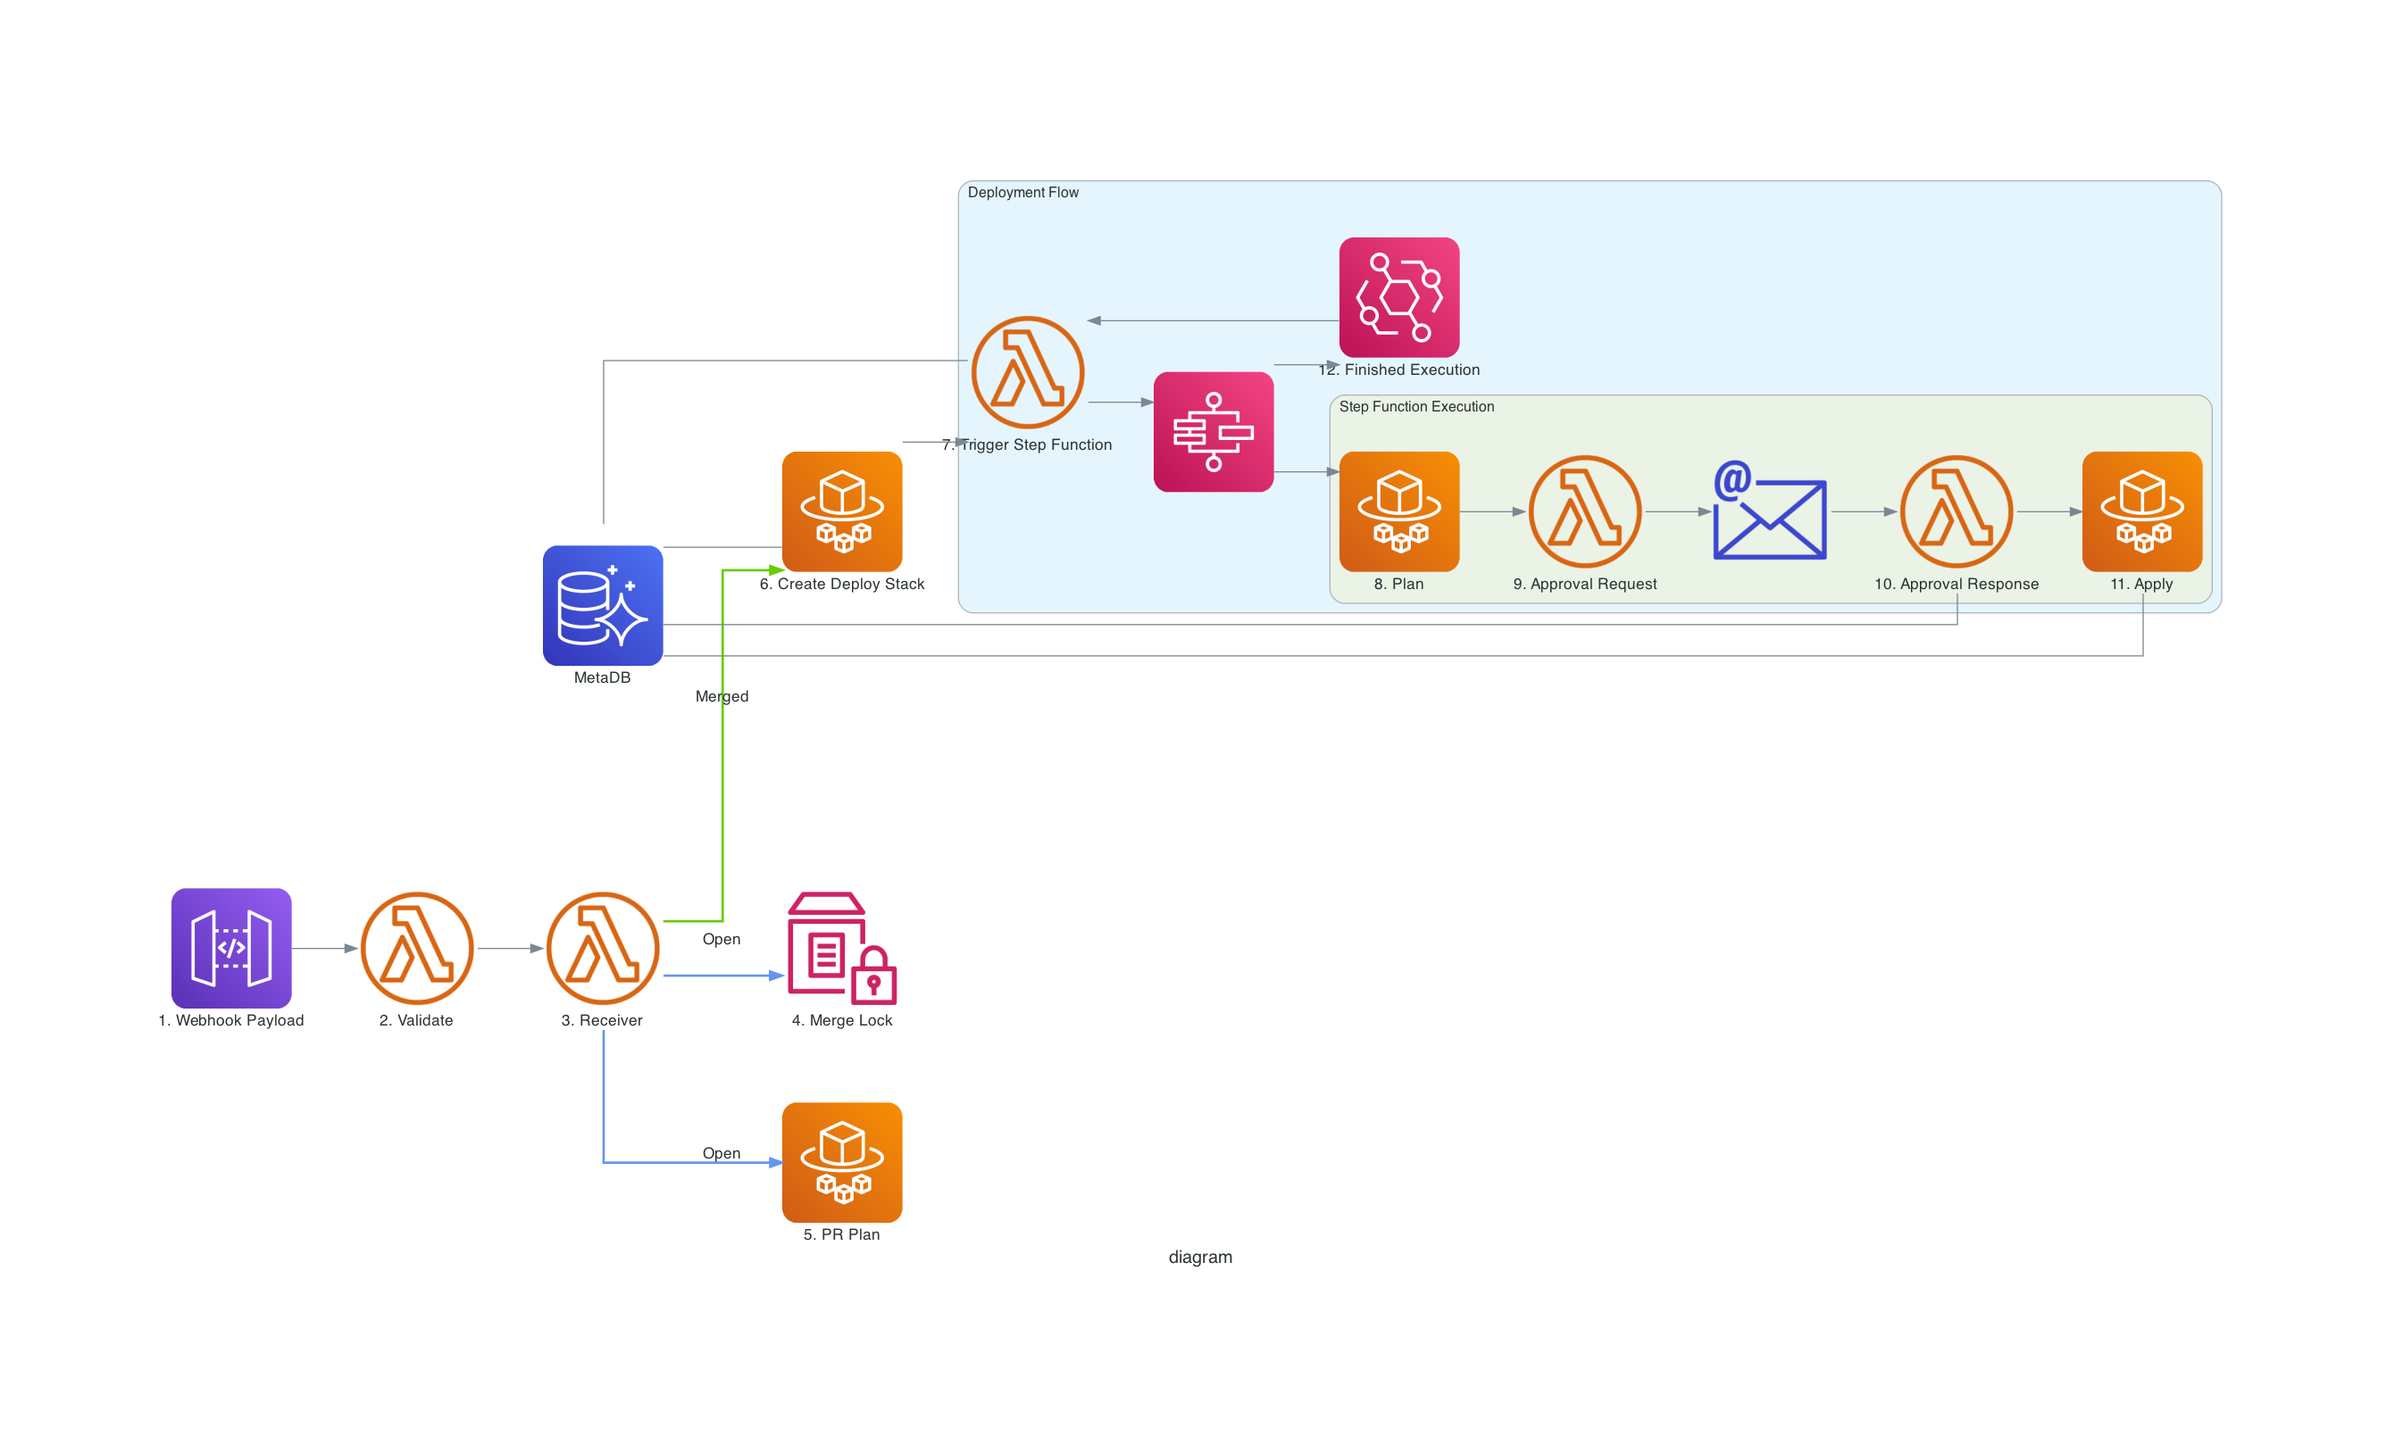
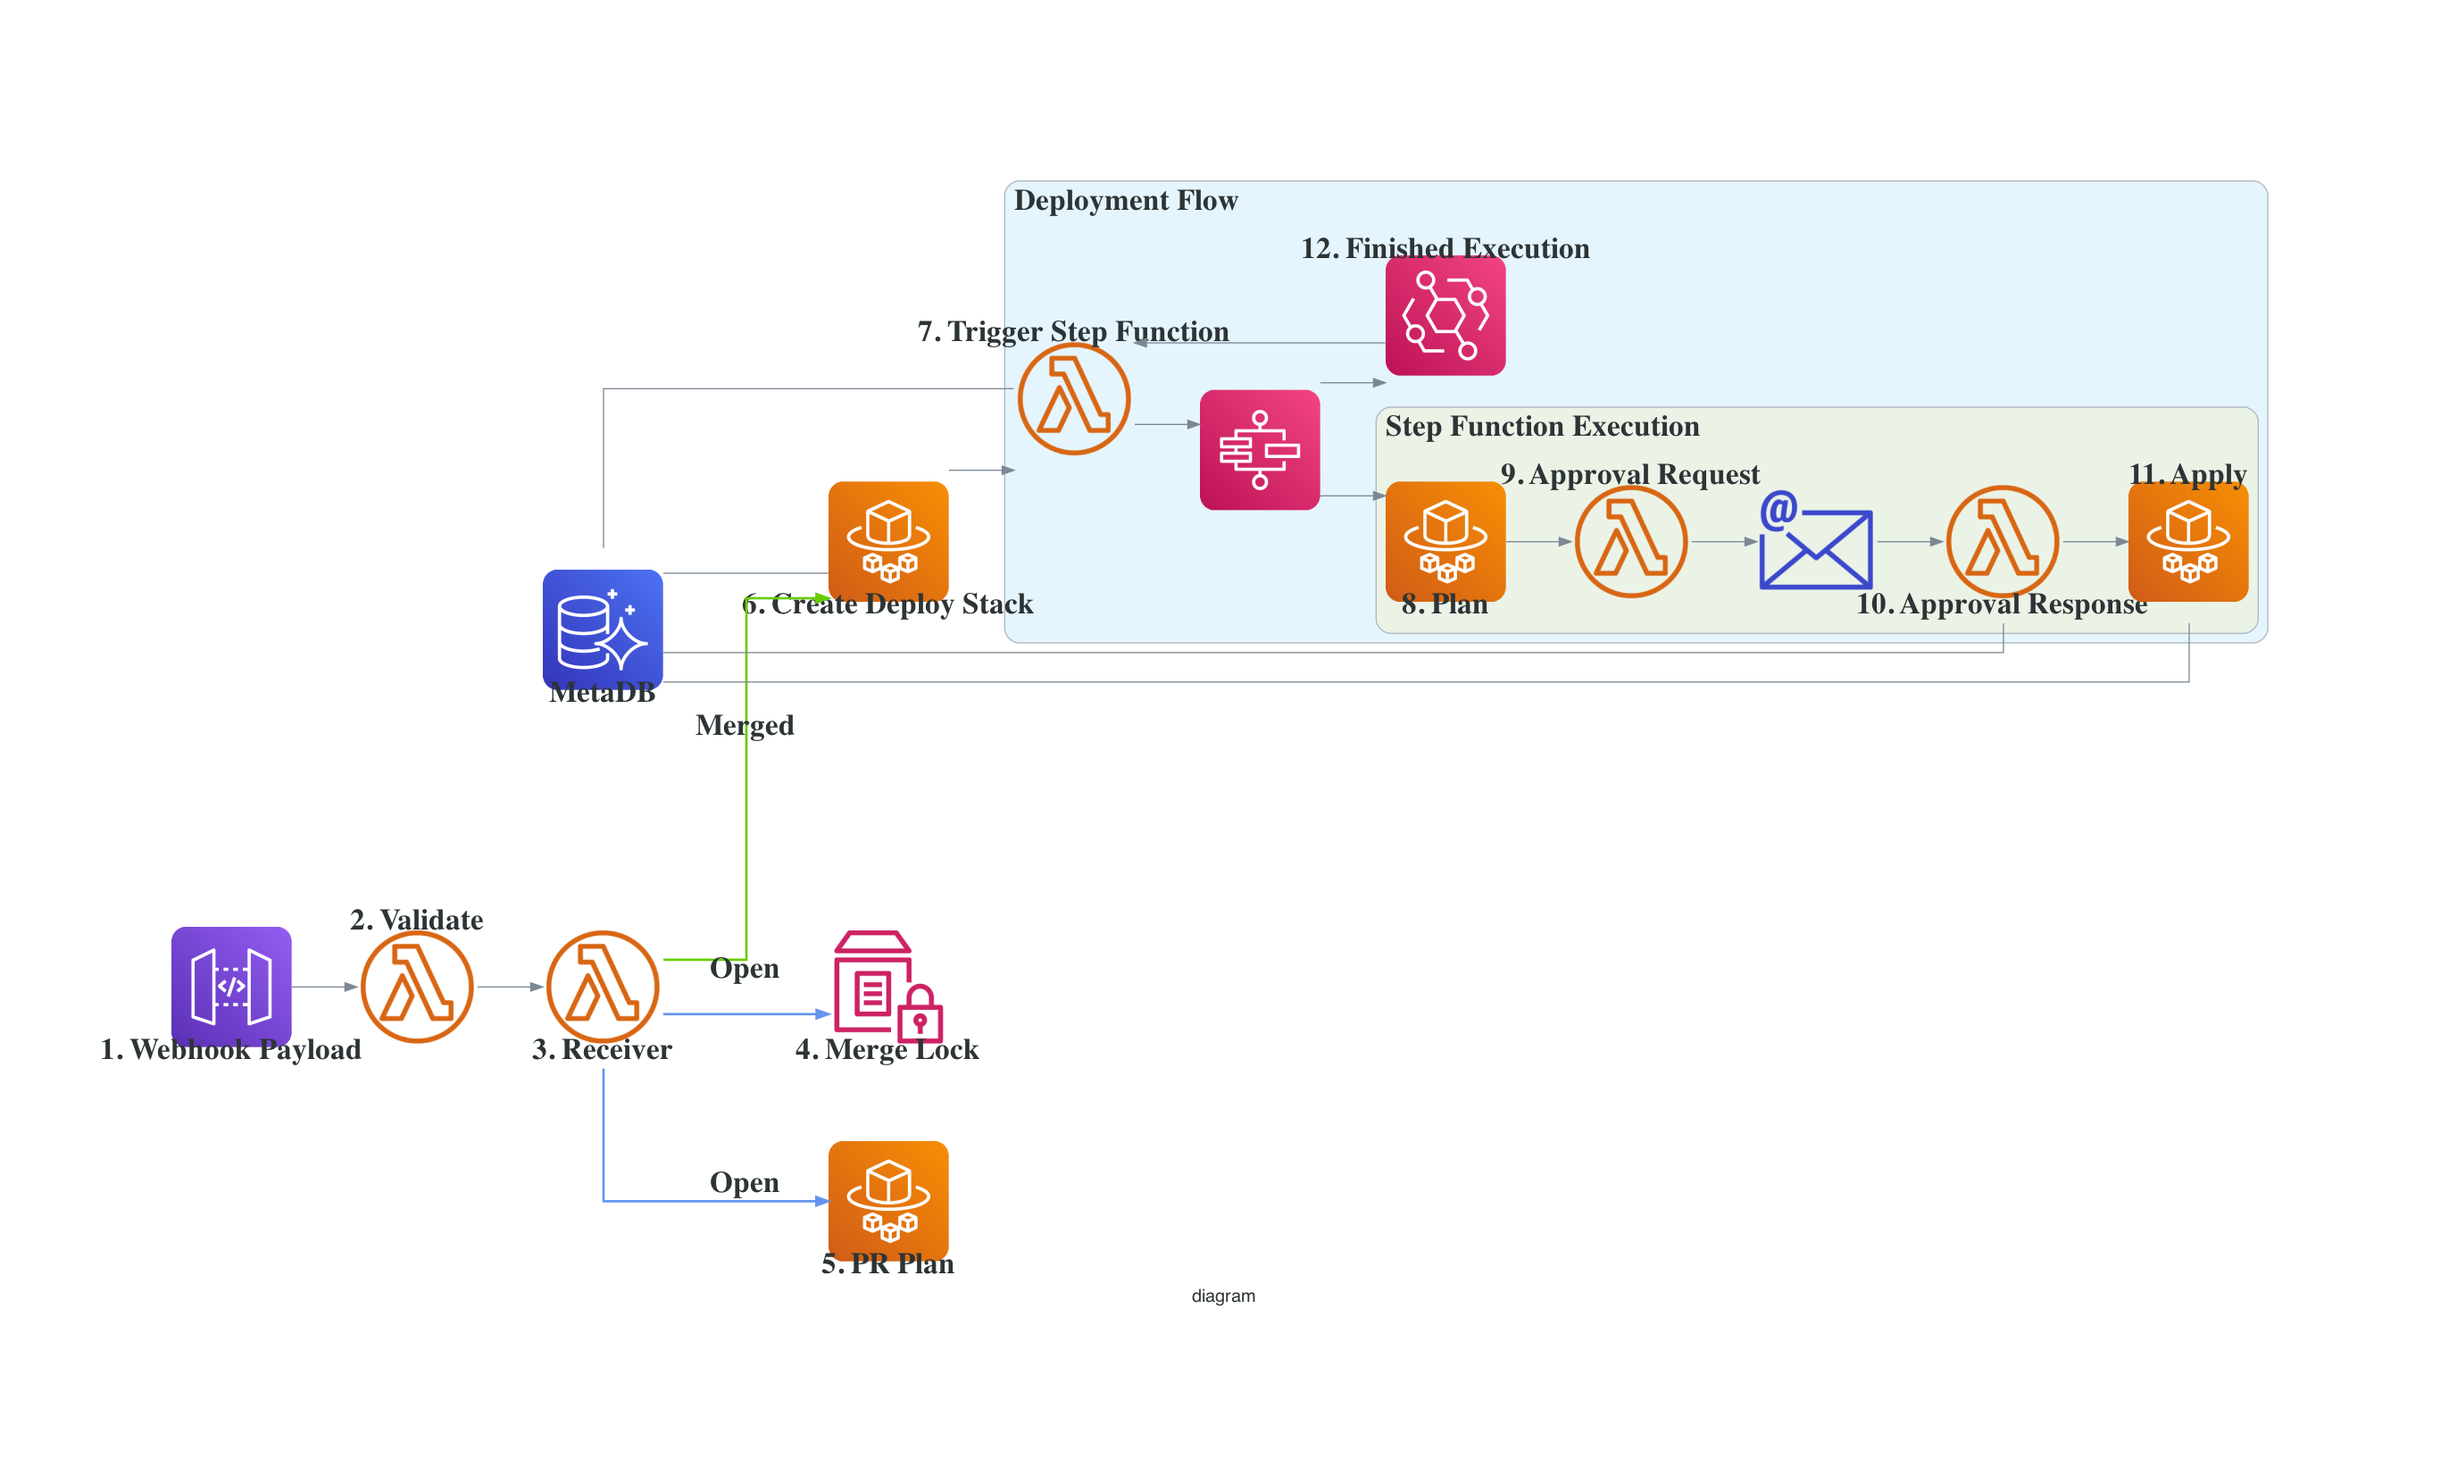
increase DAC font size

diff --git a/dac.py b/dac.py
@@ -7,41 +7,48 @@ from diagrams.aws.engagement import SimpleEmailServiceSesEmail
 from diagrams.aws.integration import Eventbridge
 from diagrams.aws.management import SystemsManagerParameterStore
 
+common_attr = {"fontsize": "25", "fontname": "Times bold"}
 
-with Diagram("diagram"):
-    validator = LambdaFunction("2. Validate")
-    receiver = LambdaFunction("3. Receiver")
-    create_deploy_stack = Fargate("6. Create Deploy Stack")
 
-    APIGateway("1. Webhook Payload") >> validator
+with Diagram("terraform-aws-infrastructure-live", graph_attr=common_attr):
+    validator = LambdaFunction("2. Validate", labelloc="t", **common_attr)
+    receiver = LambdaFunction("3. Receiver", **common_attr)
+    create_deploy_stack = Fargate("6. Create Deploy Stack", **common_attr)
+
+    APIGateway("1. Webhook Payload", **common_attr) >> validator
     validator >> receiver
     (
         receiver
-        >> Edge(label="Open", color="cornflowerblue", style="bold")
-        >> [SystemsManagerParameterStore("4. Merge Lock"), Fargate("5. PR Plan")]
+        >> Edge(label="Open", color="cornflowerblue", style="bold", **common_attr)
+        >> [
+            SystemsManagerParameterStore("4. Merge Lock", **common_attr),
+            Fargate("5. PR Plan", **common_attr),
+        ]
     )
     (
         receiver
-        >> Edge(label="Merged", color="chartreuse3", style="bold")
+        >> Edge(label="Merged", color="chartreuse3", style="bold", **common_attr)
         >> create_deploy_stack
     )
 
-    with Cluster("Deployment Flow"):
-        trigger_sf = LambdaFunction("7. Trigger Step Function")
-        eventbridge = Eventbridge("12. Finished Execution")
-        sf = StepFunctions()
+    with Cluster("Deployment Flow", graph_attr=common_attr):
+        trigger_sf = LambdaFunction(
+            "7. Trigger Step Function", labelloc="t", **common_attr
+        )
+        eventbridge = Eventbridge("12. Finished Execution", labelloc="t", **common_attr)
+        sf = StepFunctions(**common_attr)
         create_deploy_stack >> trigger_sf >> sf
 
-        with Cluster("Step Function Execution"):
-            plan = Fargate("8. Plan")
-            request = LambdaFunction("9. Approval Request")
+        with Cluster("Step Function Execution", graph_attr=common_attr):
+            plan = Fargate("8. Plan", **common_attr)
+            request = LambdaFunction("9. Approval Request", labelloc="t", **common_attr)
             email = SimpleEmailServiceSesEmail()
-            response = LambdaFunction("10. Approval Response")
-            apply = Fargate("11. Apply")
+            response = LambdaFunction("10. Approval Response", **common_attr)
+            apply = Fargate("11. Apply", labelloc="t", **common_attr)
 
             sf >> [plan, eventbridge]
             eventbridge >> trigger_sf
 
             plan >> request >> email >> response >> apply
 
-    Aurora("MetaDB") - [create_deploy_stack, trigger_sf, response, apply]
+    Aurora("MetaDB", **common_attr) - [create_deploy_stack, trigger_sf, response, apply]
